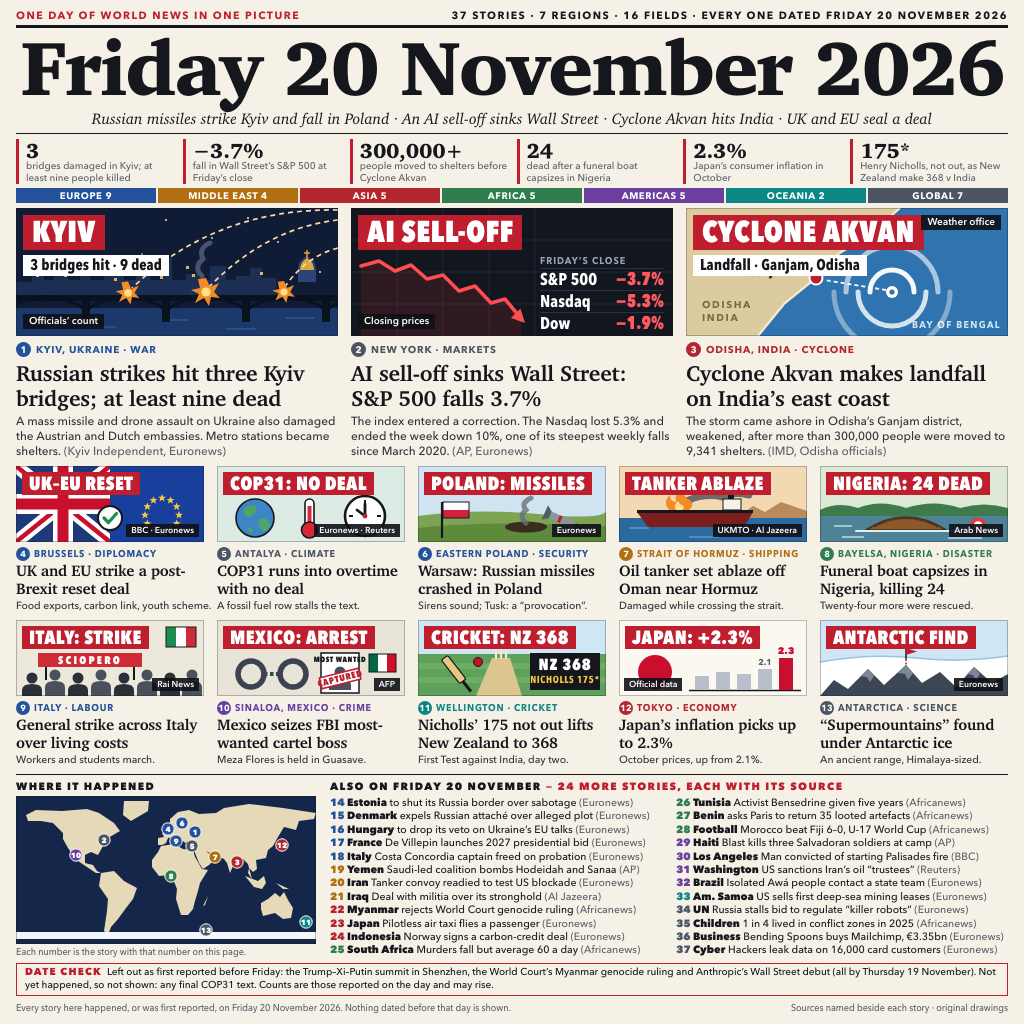
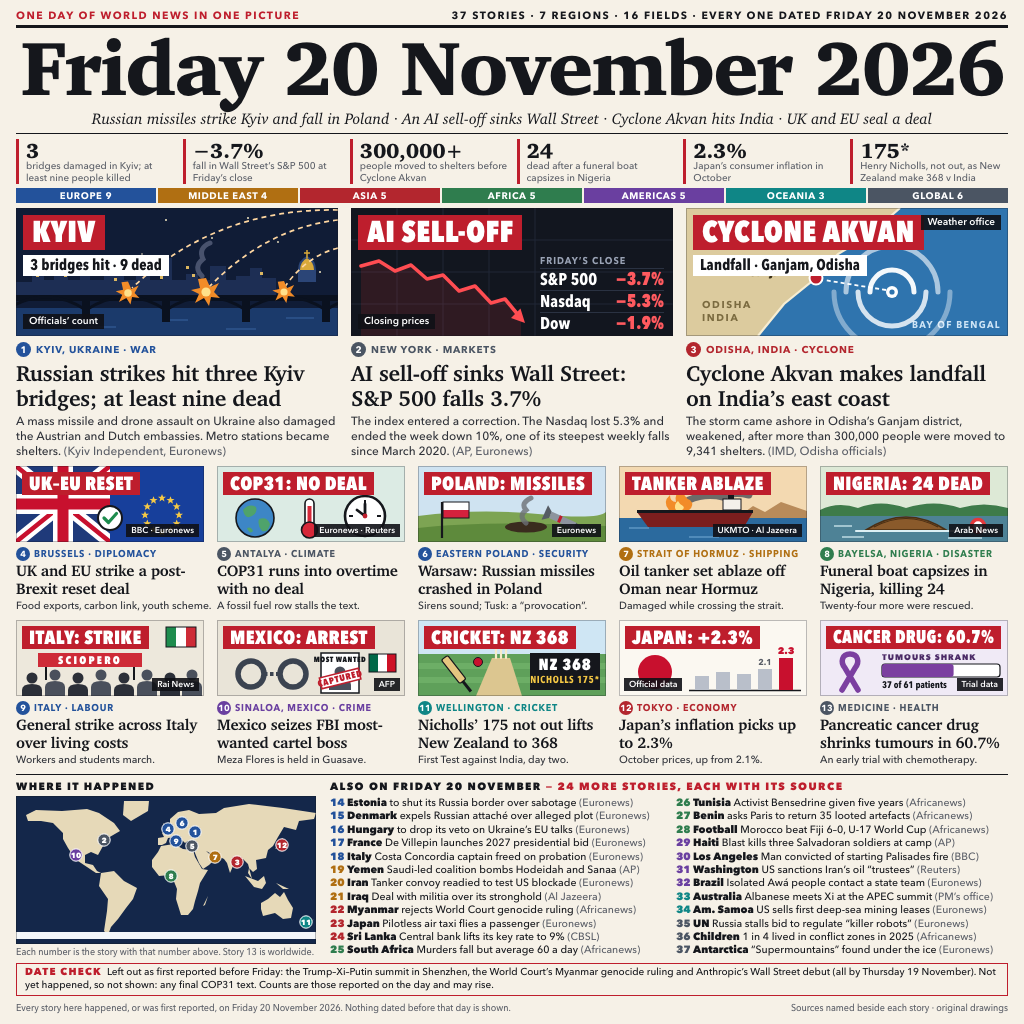
Add the pancreatic cancer trial, Sri Lanka's rate rise and the Albanese-Xi meeting

diff --git a/poster.html b/poster.html
@@ -110,7 +110,7 @@ h1{top:27px;height:80px;font:900 77px/80px var(--serif);letter-spacing:-2.2px;te
   </div>
 
   <div class="abs regions">
-    <div class="eu">EUROPE 9</div><div class="me">MIDDLE EAST 4</div><div class="as">ASIA 5</div><div class="af">AFRICA 5</div><div class="am">AMERICAS 5</div><div class="oc">OCEANIA 2</div><div class="gl">GLOBAL 7</div>
+    <div class="eu">EUROPE 9</div><div class="me">MIDDLE EAST 4</div><div class="as">ASIA 5</div><div class="af">AFRICA 5</div><div class="am">AMERICAS 5</div><div class="oc">OCEANIA 3</div><div class="gl">GLOBAL 6</div>
   </div>
 
   <!-- 1 · Kyiv -->
@@ -384,19 +384,19 @@ h1{top:27px;height:80px;font:900 77px/80px var(--serif);letter-spacing:-2.2px;te
     <div class="pic">
       <svg viewBox="0 0 188 76">
         <rect width="188" height="76" fill="#CFE6F4"/>
-        <path d="M0 42Q50 33 96 38T188 36V76H0z" fill="#fff"/>
-        <path d="M0 42Q50 33 96 38T188 36" fill="none" stroke="#9CC3DC" stroke-width="1.6"/>
-        <path d="M0 76L14 60L28 69L48 49L64 65L86 45L102 63L120 52L136 67L154 47L172 63L188 54V76z" fill="#3D4654"/>
-        <path d="M48 49l-7 7l6 1l3 5l4-6zM86 45l-8 8l7 1l3 6l5-7zM154 47l-7 7l6 1l3 5l4-6z" fill="#7C8798"/>
-        <path d="M86 39V45" stroke="#BE1E2D" stroke-width="1.6" stroke-dasharray="2 1.500"/>
-        <path d="M86 39V28" stroke="#15171C" stroke-width="1.5"/><path d="M86 28l11 3.500l-11 3.500z" fill="#BE1E2D"/>
+        <rect width="188" height="76" fill="#F0EAF6"/>
+        <path d="M30 34c-8 0-10 8-5 14l13 22M30 34c8 0 10 8 5 14l-13 22" fill="none" stroke="#7B3FA0" stroke-width="5.500" stroke-linecap="round"/>
+        <text x="62" y="40" font-family="Avenir Next,Helvetica Neue,Arial" font-weight="800" font-size="8" letter-spacing="1" fill="#4B2A66">TUMOURS SHRANK</text>
+        <rect x="62" y="44" width="118" height="13" rx="3" fill="#fff" stroke="#15171C" stroke-width="1.2"/>
+        <rect x="62" y="44" width="71.600" height="13" rx="3" fill="#7B3FA0"/>
+        <text x="62" y="68" font-family="Avenir Next Condensed,Arial Narrow,Arial" font-weight="700" font-size="9.500" fill="#15171C">37 of 61 patients</text>
       </svg>
-      <div class="chip">Antarctic find</div>
-      <div class="src">Euronews</div>
+      <div class="chip sm">Cancer drug: 60.7%</div>
+      <div class="src">Trial data</div>
     </div>
-    <div class="tag c-gl"><b class="n gl">13</b>Antarctica · Science</div>
-    <h2>“Supermountains” found under Antarctic ice</h2>
-    <p>An ancient range, Himalaya-sized.</p>
+    <div class="tag c-gl"><b class="n gl">13</b>Medicine · Health</div>
+    <h2>Pancreatic cancer drug shrinks tumours in 60.7%</h2>
+    <p>An early trial with chemotherapy.</p>
   </div>
 
   <div class="abs bar" style="top:774px;height:1px"></div>
@@ -431,11 +431,10 @@ h1{top:27px;height:80px;font:900 77px/80px var(--serif);letter-spacing:-2.2px;te
           <g><circle cx="60" cy="54" r="6.200" fill="#6A3FA0" stroke="#fff" stroke-width="1"/><text x="60" y="56.700">10</text></g>
           <g><circle cx="290" cy="121" r="6.200" fill="#0F8686" stroke="#fff" stroke-width="1"/><text x="290" y="123.700">11</text></g>
           <g><circle cx="266" cy="44" r="6.200" fill="#B3262E" stroke="#fff" stroke-width="1"/><text x="266" y="46.700">12</text></g>
-          <g><circle cx="190" cy="129" r="6.200" fill="#4B5563" stroke="#fff" stroke-width="1"/><text x="190" y="131.700">13</text></g>
         </g>
       </svg>
     </div>
-    <small>Each number is the story with that number on this page.</small>
+    <small>Each number is the story with that number above. Story 13 is worldwide.</small>
   </div>
 
   <!-- also -->
@@ -452,7 +451,7 @@ h1{top:27px;height:80px;font:900 77px/80px var(--serif);letter-spacing:-2.2px;te
       <li><u class="c-me">21</u><b>Iraq</b> Deal with militia over its stronghold <i>(Al Jazeera)</i></li>
       <li><u class="c-as">22</u><b>Myanmar</b> rejects World Court genocide ruling <i>(Africanews)</i></li>
       <li><u class="c-as">23</u><b>Japan</b> Pilotless air taxi flies a passenger <i>(Euronews)</i></li>
-      <li><u class="c-as">24</u><b>Indonesia</b> Norway signs a carbon-credit deal <i>(Euronews)</i></li>
+      <li><u class="c-as">24</u><b>Sri Lanka</b> Central bank lifts its key rate to 9% <i>(CBSL)</i></li>
       <li><u class="c-af">25</u><b>South Africa</b> Murders fall but average 60 a day <i>(Africanews)</i></li>
       <li><u class="c-af">26</u><b>Tunisia</b> Activist Bensedrine given five years <i>(Africanews)</i></li>
       <li><u class="c-af">27</u><b>Benin</b> asks Paris to return 35 looted artefacts <i>(Africanews)</i></li>
@@ -461,11 +460,11 @@ h1{top:27px;height:80px;font:900 77px/80px var(--serif);letter-spacing:-2.2px;te
       <li><u class="c-am">30</u><b>Los Angeles</b> Man convicted of starting Palisades fire <i>(BBC)</i></li>
       <li><u class="c-am">31</u><b>Washington</b> US sanctions Iran’s oil “trustees” <i>(Reuters)</i></li>
       <li><u class="c-am">32</u><b>Brazil</b> Isolated Awá people contact a state team <i>(Euronews)</i></li>
-      <li><u class="c-oc">33</u><b>Am. Samoa</b> US sells first deep-sea mining leases <i>(Euronews)</i></li>
-      <li><u class="c-gl">34</u><b>UN</b> Russia stalls bid to regulate “killer robots” <i>(Euronews)</i></li>
-      <li><u class="c-gl">35</u><b>Children</b> 1 in 4 lived in conflict zones in 2025 <i>(Africanews)</i></li>
-      <li><u class="c-gl">36</u><b>Business</b> Bending Spoons buys Mailchimp, €3.35bn <i>(Euronews)</i></li>
-      <li><u class="c-gl">37</u><b>Cyber</b> Hackers leak data on 16,000 card customers <i>(Euronews)</i></li>
+      <li><u class="c-oc">33</u><b>Australia</b> Albanese meets Xi at the APEC summit <i>(PM’s office)</i></li>
+      <li><u class="c-oc">34</u><b>Am. Samoa</b> US sells first deep-sea mining leases <i>(Euronews)</i></li>
+      <li><u class="c-gl">35</u><b>UN</b> Russia stalls bid to regulate “killer robots” <i>(Euronews)</i></li>
+      <li><u class="c-gl">36</u><b>Children</b> 1 in 4 lived in conflict zones in 2025 <i>(Africanews)</i></li>
+      <li><u class="c-gl">37</u><b>Antarctica</b> “Supermountains” found under the ice <i>(Euronews)</i></li>
     </ol>
   </div>
 
